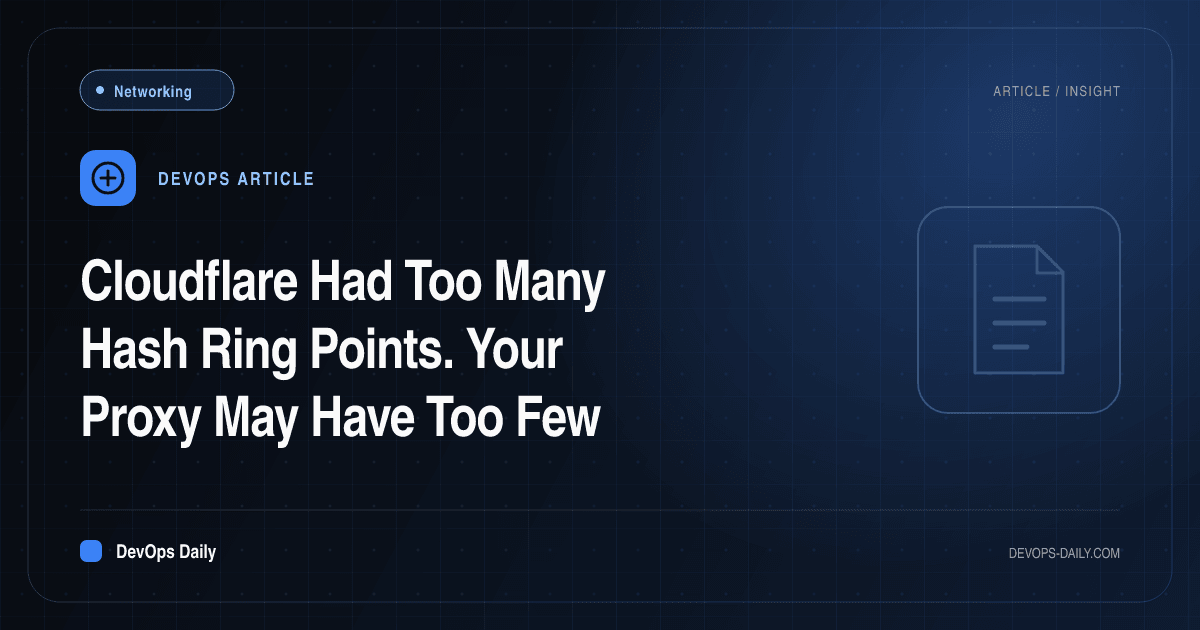
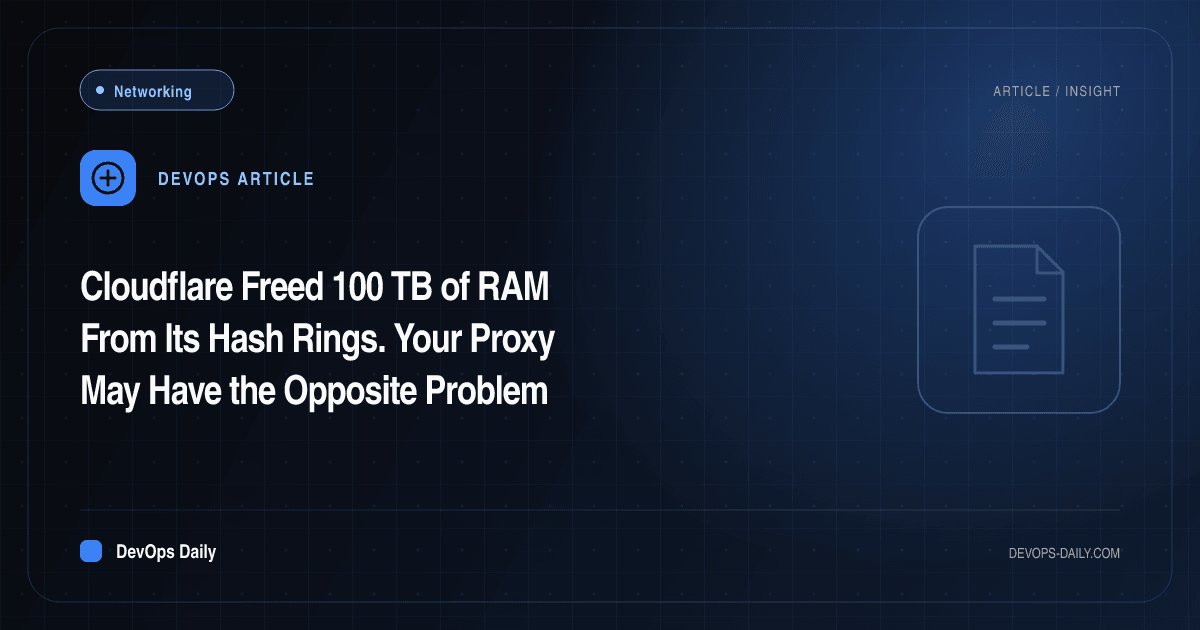
Put the 100 TB in the hash ring post title (#1759)
* Put the 100 TB in the hash ring post title

* Regenerate the OG image for the new title

Changed region(s): [[0.0617, 0.5127, 0.5242, 0.7238], [0.0617, 0.3921, 0.5242, 0.4825], [0.1233, 0.1206, 0.1542, 0.1508]]

diff --git a/content/posts/hash-ring-points-nginx-haproxy-envoy.md b/content/posts/hash-ring-points-nginx-haproxy-envoy.md
@@ -1,5 +1,5 @@
 ---
-title: 'Cloudflare Had Too Many Hash Ring Points. Your Proxy May Have Too Few'
+title: 'Cloudflare Freed 100 TB of RAM From Its Hash Rings. Your Proxy May Have the Opposite Problem'
 excerpt: 'Cloudflare got back 100 TB of RAM partly by cutting 90% of the points on its consistent hash rings. We measured the other end of the same curve: a million keys through nginx and HAProxy to 100 backends, and Envoy rebuilt from its source. The busiest server ranged from 1.05x to 2x its fair share, and the points per server explained most of it.'
 category:
   name: 'Networking'
